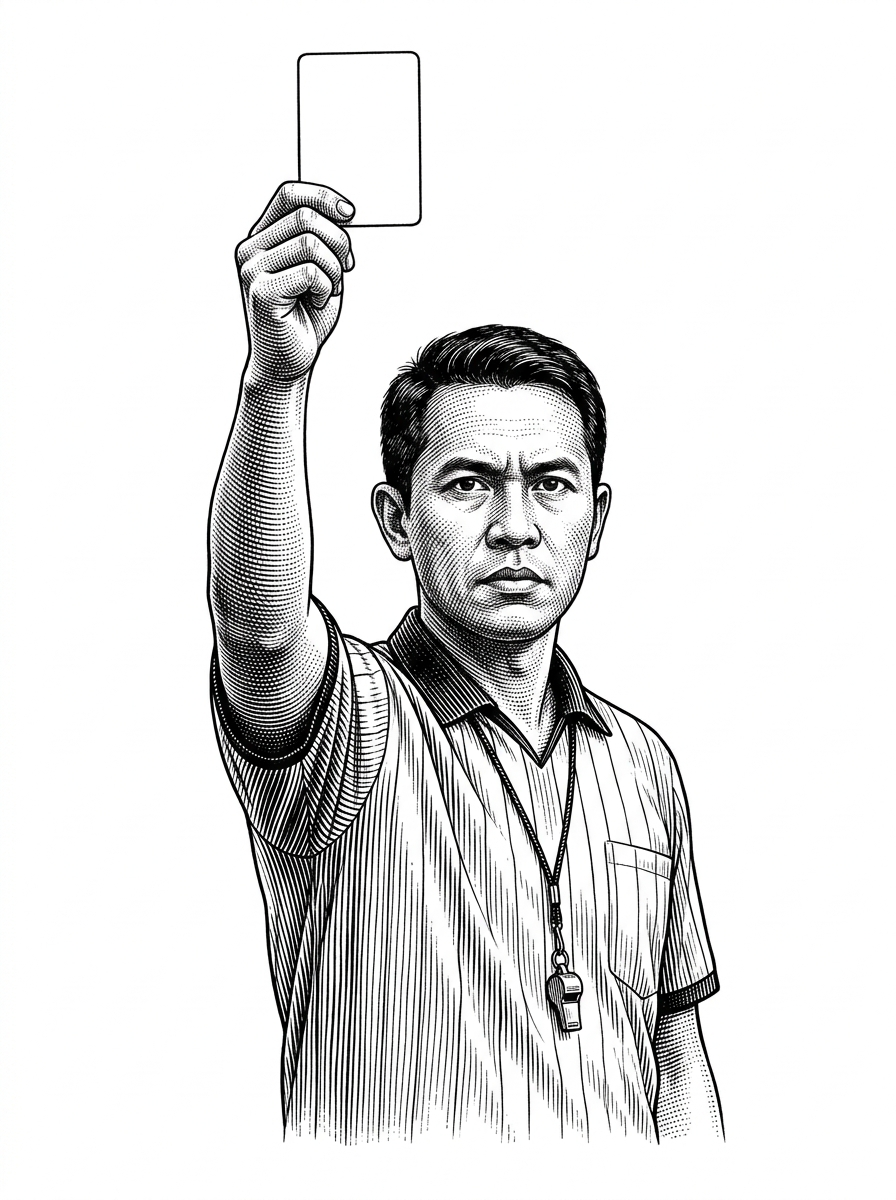
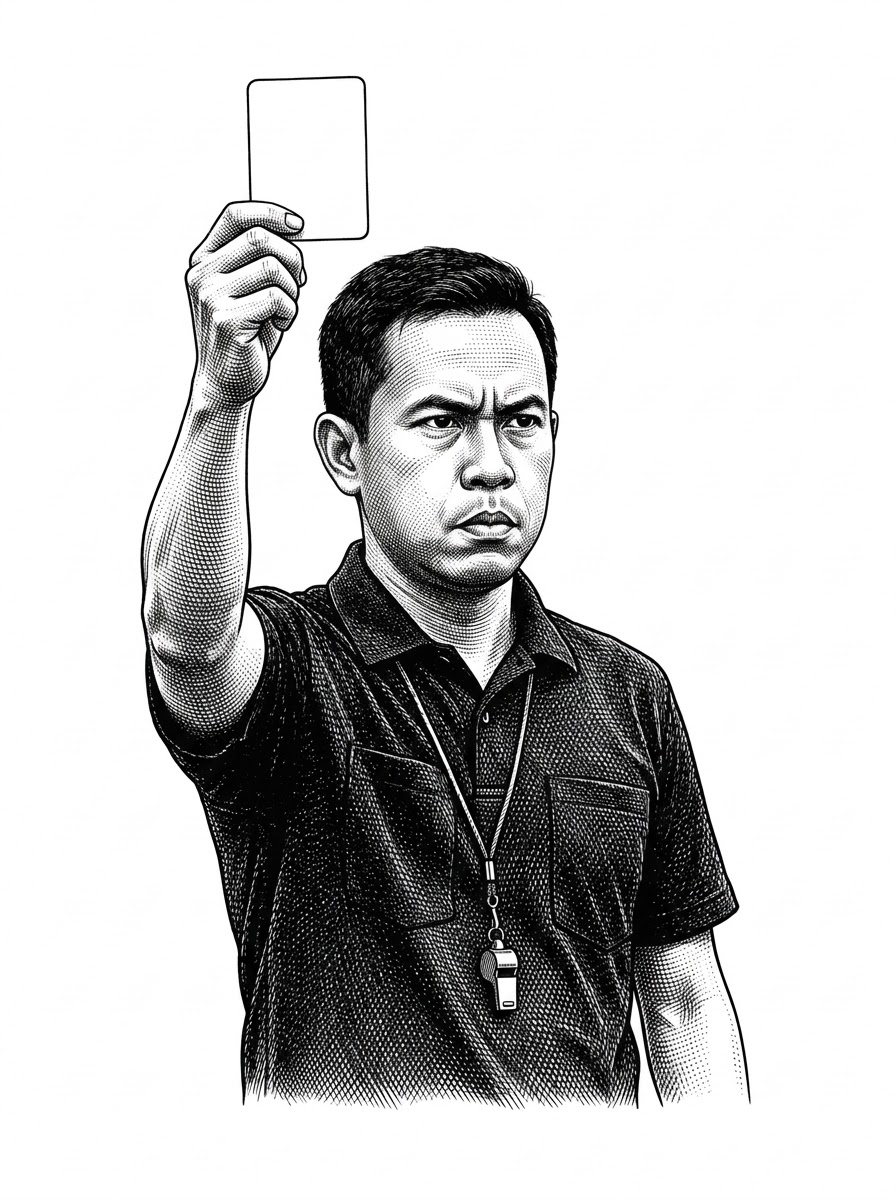
ARSIP #004 aqua: storyboard v2 (company = factory + company man, KPPU = referee across shots, courtroom punchline, stamp cards); review workflow notes
Claude-Session: https://claude.ai/code/session_01BfnoLVZri9uAPP3UdHeCe6

diff --git a/stories/aqua/kolase/film.js b/stories/aqua/kolase/film.js
@@ -41,13 +41,14 @@ function warung(u, keys, s, star = 'on', id = 20, tOff = 0) {
 const camK = (u, keys, sh = []) => { let o = [0, 0]; for (const [t0, a] of sh) { const s = shake(u, t0, a); o = [o[0] + s[0], o[1] + s[1]]; } applyCam(cam(keys, u), o); };
 
 const SHOTS = [
-  // 01 · Aqua didenda tiga belas koma delapan miliar.   hero bottle already moving at 0.00, the fine slaps at once
+  // 01 · Aqua didenda tiga belas koma delapan miliar.   the company (factory + its bottle) is on the table at 0.00, the fine slaps at once
   (u, T, d) => {
     stage(u, d, { z0: 1.02, z1: 1.08, cy: 880, shake: [[0.0, 8], [0.14, 12]] }); bg(SET.hook);
-    putK('bottle_hero', [[0, 540, 690, -7, 1.2, 1, null, 0, 1.04], [0.14, 540, 710, -4, 0, 1, 'in', 1.2, 1.0]], u, 1);
+    putK('pabrik', [[0, 540, 560, -2, 1.2, 1, null, 0, 1.0], [0.1, 540, 570, -1, 0, 1, 'in', 1.0, 0.98]], u, 4);
+    putK('bottle_hero', [[0, 830, 800, -5, 1.2, 1, null, 0, 0.66], [0.14, 830, 820, -3, 0, 1, 'in', 1.2, 0.62]], u, 1);
+    putK('s_aqua', slap(0.25, 300, 440, -6), u, 2, { s: 1.3 });
     putK('s_138', [[0, 540, 225, -3, 2, 1, null, 0, 1.06], [0.08, 540, 235, -3, 0, 1, 'in', 1.0, 1.0]], u, 3);
-    putK('s_aqua', slap(0.3, 800, 560, 8), u, 2, { s: 0.9 });
-    stampAt('st_denda', u, 0.14, 560, 1020, -8, 1.3);
+    stampAt('st_denda', u, 0.14, 470, 1040, -8, 1.2);
   },
   // 02 · Gara-gara warung kayak gini jual air mineral merek lain.
   (u, T, d) => {
@@ -114,25 +115,26 @@ const SHOTS = [
     putK('s_kppu2', slap(0.45, 540, 190, 2), u, 101);
     putK('s_wasit', slap(at(8, 'wasitnya'), 640, 1120, -2), u, 103);
   },
-  // 10 · bilang itu persaingan nggak sehat. Aqua didenda.   the referee's red card, then the fine (2017)
+  // 10 · bilang itu persaingan nggak sehat. Aqua didenda.   the KPPU referee shows the red card to the company (2017)
   (u, T, d) => {
     const tk = at(9, 'nggak'), td = at(9, 'didenda');
     stage(u, d, { z0: 1.0, z1: 1.07, shake: [[tk, 8], [td, 12]] }); bg(SET.ref);
-    putK('bottle_hero', [[0, 760, 760, 3, 0, 1]], u, 110, { s: 0.7 });
-    putK('wasit_kartu', slide(tk - 0.25, tk, 330, 680, -3, -700, 0, 0, 0.8), u, 111, { s: 0.95 });
-    putK('s_kppu', slap(tk + 0.1, 300, 1000, -6), u, 112, { s: 0.7 });
-    stampAt('st_denda', u, td, 720, 1060, -8, 0.95);
+    put('pabrik', 760, 640, 0, 0, 1, 0.5);
+    putK('s_aqua', slap(0.1, 780, 430, 4), u, 113, { s: 0.9 });
+    putK('wasit_kartu', slide(tk - 0.25, tk, 330, 720, -2, -700, 0, 0, 0.8), u, 111, { s: 0.92 });
+    putK('s_kppu', slap(tk + 0.1, 250, 1010, -6), u, 112, { s: 0.7 });
+    stampAt('st_denda', u, td, 760, 920, -8, 0.9);
     if (u > td + 0.15) ransomRow('ry17', u, td + 0.15, 800, 190, 0.07, 0.8);
   },
-  // 11 · Tapi Aqua membantah, katanya itu ulah distributor.
+  // 11 · Tapi Aqua membantah, katanya itu ulah distributor.   the company man says "not us" and points at the distributor's truck
   (u, T, d) => {
-    const tb = at(10, 'membantah'), tk = at(10, 'katanya'), tu = at(10, 'ulah');
+    const tb = at(10, 'membantah'), tk = at(10, 'katanya');
     stage(u, d, { z1: 1.05, shake: [[tb, 9]] }); bg(SET.deny);
-    putK('bottle_hero', [[0, 290, 740, -3, 0, 1]], u, 120, { s: 0.6 });
-    stampAt('st_dibantah', u, tb, 330, 1090, -8, 0.85);
-    putK('truck', slide(tk, tk + 0.35, 700, 430, 2, 800, 0, 0, -0.8), u, 121, { s: 0.72 });
-    arrow(u, tu - 0.2, tu + 0.15, bow([400, 620], [620, 560], -0.2), { seed: 122 });
-    putK('s_distributor', slap(at(10, 'distributor'), 720, 680, 3), u, 123);
+    putK('bos_bantah', slide(0, 0.25, 690, 740, 0, 600, 0, 0, -0.6), u, 120, { s: 0.92 });
+    putK('s_pihak', slap(0.3, 760, 290, 4), u, 124, { s: 0.85 });
+    stampAt('st_dibantah', u, tb, 700, 1090, -6, 0.9);
+    putK('truck', slide(tk, tk + 0.35, 230, 470, 2, -700, 0, 0, 0.8), u, 121, { s: 0.52 });
+    putK('s_distributor', slap(at(10, 'distributor'), 250, 680, -3), u, 123, { s: 0.9 });
   },
   // 12 · Dan pengadilan… membatalkan denda Aqua.   (2019)
   (u, T, d) => {
@@ -145,13 +147,14 @@ const SHOTS = [
     stampAt('st_batal', u, tm + 0.1, 560, 1090, 4, 0.95);
     if (u > tm + 0.4) ransomRow('ry19', u, tm + 0.4, 830, 190, 0.07, 0.75);
   },
-  // 13 · Aqua bebas? Belum.   the bottle lifts on "bebas?", slams down on "Belum"
+  // 13 · Aqua bebas? Belum.   the company man sighs with relief on "bebas?", BELUM slams down
   (u, T, d) => {
     const tq = at(12, 'bebas'), tb = at(12, 'belum');
     stage(u, d, { z1: 1.06, shake: [[tb, 14]] }); bg(SET.hook);
-    putK('bottle_hero', [[0, 540, 680, -2, 0, 1], [tq + 0.1, 540, 600, 3, 3, 1, 'out'], [tb, 540, 680, -3, 0, 1, 'in', 1.3]], u, 140, { s: 0.92 });
-    ransomRow('rq', u, tq, 860, 330, 0.1, 0.9);
-    stampAt('st_belum', u, tb, 540, 1010, -10, 1.15);
+    putK('bos_lega', [[0, 540, 720, 0, 0, 1], [tq + 0.1, 540, 690, 2, 1.5, 1, 'out'], [tb, 540, 720, -2, 0, 1, 'in', 1.0]], u, 140, { s: 0.92 });
+    putK('s_pihak', slap(0.05, 260, 300, -5), u, 141, { s: 0.85 });
+    ransomRow('rq', u, tq, 850, 300, 0.1, 0.9);
+    stampAt('st_belum', u, tb, 540, 1050, -10, 1.15);
   },
   // 14 · Masalahnya, KPPU pegang bukti dari awal:   the case file, documents peeking out
   (u, T, d) => {
@@ -182,19 +185,16 @@ const SHOTS = [
     putK('s_satu', slap(at(15, 'satu'), 220, 230, -6), u, 171);
     stampAt('st_dicopot', u, tc + 0.12, 540, 1085, -7, 1.0);
   },
-  // 17 · KPPU nggak terima, dan membawa kasus ini ke Mahkamah Agung.   the file travels to the court
+  // 17 · KPPU nggak terima, dan membawa kasus ini ke Mahkamah Agung.   the referee walks the case file to the court
   (u, T, d) => {
     const tb = at(16, 'membawa'), tm = at(16, 'mahkamah');
     stage(u, d, { z0: 1.0, z1: 1.04 }); bg(SET.court);
-    putK('court', slide(0.8, 1.15, 640, 420, 0, 900, 0, 0, -0.6), u, 180, { s: 0.68 });
-    const path = bow([290, 1010], [620, 640], 0.22);
-    route(u, tb - 0.1, tb + 0.6, path, { seed: 181 });
-    const f = EASE.io(seg(stepT(u), tb + 0.3, tm + 0.1)), i = Math.min(path.length - 1, Math.floor(f * (path.length - 1)));
-    const [fx, fy] = path[i];
-    putK('folder', [[0, 290, 1010, -6, 0, 1, null, 0, 0.42], [0.01, 290, 1010, -6, 0, 1]], u, 182, { s: 0.42 + (0.28 - 0.42) * f });
-    if (f > 0) put('folder', fx, fy, -6 + 8 * f, 2 * Math.sin(f * Math.PI), 1, 0.42 + (0.28 - 0.42) * f);
-    put('s_kppu', (f > 0 ? fx : 290) - 20, (f > 0 ? fy : 1010) + 20, -4, 0, 1, 0.42 * (1 - 0.35 * f));
-    putK('s_ma', slap(tm, 640, 760, 3), u, 183);
+    putK('court', slide(0.2, 0.5, 760, 430, 0, 700, 0, 0, -0.6), u, 180, { s: 0.55 });
+    const f = EASE.lin(seg(stepT(u), 0, d)), bob = Math.abs(Math.sin(stepT(u) * 9)) * -10;
+    put('wasit_map', 220 + 300 * f, 820 + bob, 0, 0, 1, 0.82);
+    put('s_kppu', 165 + 300 * f, 690 + bob, -5, 0, 1, 0.42);
+    route(u, tb, tb + 0.7, bow([420, 700], [680, 560], 0.15), { seed: 181 });
+    putK('s_ma', slap(tm, 740, 190, 3), u, 183);
   },
   // 18 · Hasilnya… Mahkamah Agung memihak KPPU.   (2019)
   (u, T, d) => {
@@ -204,19 +204,20 @@ const SHOTS = [
     stampAt('st_menang', u, tm, 540, 950, -6, 1.15);
     if (u > tm + 0.35) ransomRow('ry19', u, tm + 0.35, 540, 170, 0.07, 0.8);
   },
-  // 19 · Denda Aqua berlaku lagi.   echo of frame 0
+  // 19 · Denda Aqua berlaku lagi.   the company man slumps in front of the factory; echo of frame 0
   (u, T, d) => {
-    stage(u, d, { z0: 1.02, z1: 1.08, cy: 880, shake: [[0.08, 12]] }); bg(SET.hook);
-    putK('bottle_hero', [[0, 540, 690, -7, 1.2, 1, null, 0, 1.04], [0.1, 540, 710, -4, 0, 1, 'in', 1.2, 1.0]], u, 190);
-    stampAt('st_denda', u, 0.08, 560, 1020, -8, 1.3);
-    putK('s_138', slap(at(18, 'berlaku'), 540, 235, -3), u, 191);
+    stage(u, d, { z0: 1.02, z1: 1.07, cy: 880, shake: [[0.08, 12]] }); bg(SET.hook);
+    put('pabrik', 600, 520, 0, 0, 1, 0.78);
+    putK('bos_lemas', slide(0, 0.2, 330, 800, 0, 0, -300, 0, 0.6), u, 190, { s: 0.78 });
+    stampAt('st_denda', u, 0.08, 720, 1040, -8, 1.1);
+    putK('s_138', slap(at(18, 'berlaku'), 560, 215, -3), u, 191);
   },
-  // 20 · Air putih doang, sampai Mahkamah Agung.   tight on a glass of water, then pull back to the huge court
+  // 20 · Air putih doang, sampai Mahkamah Agung.   tight on one small bottle in the defendant's chair, then pull back to the grand courtroom
   (u, T, d) => {
     const ts = at(19, 'sampai');
-    camK(u, [[0, 540, 1010, 2.1], [ts - 0.05, 540, 1000, 2.2], [ts + 0.7, 540, 760, 0.98, 'io'], [d, 540, 760, 1.0]]); bg(SET.court);
-    put('court', 540, 520, 0, 0, 1, 1.0);
-    putK('glass', [[0, 540, 1030, 0, 0, 1]], u, 200, { s: 0.6 });
+    camK(u, [[0, 538, 880, 2.6], [ts - 0.05, 538, 885, 2.7], [ts + 0.75, 540, 660, 1.0, 'io'], [d, 540, 660, 1.02]]); bg(SET.court);
+    put('botol_sidang', 540, 660, 0, 0, 1, 1.0);
+    if (u > ts + 0.8) { arrow(u, ts + 0.8, ts + 1.05, bow([620, 290], [560, 820], 0.12), { seed: 201 }); putK('s_terdakwa', slap(ts + 1.05, 600, 235, -3), u, 202); }
   },
   // 21 · Jadi isi rak warung itu… nggak selalu pilihan pemilik warungnya.
   (u, T, d) => {

diff --git a/stories/aqua/kolase/bake.py b/stories/aqua/kolase/bake.py
@@ -200,7 +200,7 @@ def slips():
          ('s_ulah', '"ulah distributor"', F_FELLI, 42, CARD, INK), ('s_pn', 'PENGADILAN', F_CPB, 44, CARD, INK),
          ('s_ma', 'MAHKAMAH AGUNG', F_CPB, 44, CARD, INK), ('s_turunin', '= turunin status warung bintang', F_CPB, 32, AMBER, INK),
          ('s_satu', '1 warung', F_CPB, 40, CARD, RED), ('s_pilihan', 'pilihan siapa?', F_FELLI, 44, CARD, INK),
-         ('s_rumah', 'warung dekat rumahmu', F_CPB, 38, CARD, INK)]
+         ('s_rumah', 'warung dekat rumahmu', F_CPB, 38, CARD, INK), ('s_pihak', 'pihak AQUA', F_CPB, 40, CARD, INK), ('s_terdakwa', 'terdakwa: air putih', F_CPB, 38, CARD, RED)]
     for i, (n, tx, f, s, pa, ik) in enumerate(T):
         bk.strip(n, tx, f, s * 1.3, pa, ik, 410 + i, mono=f.startswith('Courier'))
     bk.ransom('ry16', '2016', 120, 3)

diff --git a/.claude/skills/arsip-kasus/references/7-selera-dan-cara-kerja.md b/.claude/skills/arsip-kasus/references/7-selera-dan-cara-kerja.md
@@ -53,3 +53,7 @@ Dibaca **sebelum** mengirim apa pun ke user (shortlist, script, storyboard, film
 - [ ] Bahasa VO/teks natural, presisi, eksplisit; punchline lucu dipertahankan.
 - [ ] Tidak ada watermark; kredit gambar tercatat.
 - [ ] Janji pilar dibayar (satu kalimat alasan asli yang menyentuh pengalaman penonton); jargon dijelaskan; tahun di layar untuk kasus lama; tidak terkesan iklan merek mana pun.
+21. **Merek = perusahaan, bukan cuma produknya** (review storyboard #004): kalau VO bilang "Aqua didenda/membantah/bebas", yang tampil harus perusahaannya (pabrik berlabel tag ketik + orang berjas "pihak X", wajah generik), bukan botol. Lembaga tampil sebagai metafora orang (KPPU = wasit), konsisten satu tokoh dengan baju sama di semua shot.
+22. **Cap/stempel harus terbaca di HP:** tinta tipis di atas gambar gravir tidak terbaca; cap dicetak di kartu krem (`bake.py` stamps → card).
+23. **Adegan lucu butuh kontras visual yang jelas** (botol air sendirian di kursi terdakwa ruang sidang megah, zoom dari dekat ke lebar), bukan sekadar benda kecil di depan gedung.
+24. **Review storyboard lewat halaman artifact yang bisa dikomentari** (bukan gambar grid): user menaruh komentar per shot tanpa "Send to Claude", lalu bilang "cek komentar" di chat; Claude membaca semua dengan `ArtifactComments read`, menjawab di chat, dan menulis jawaban per shot sebagai kotak "Revisi vN" di halaman.
